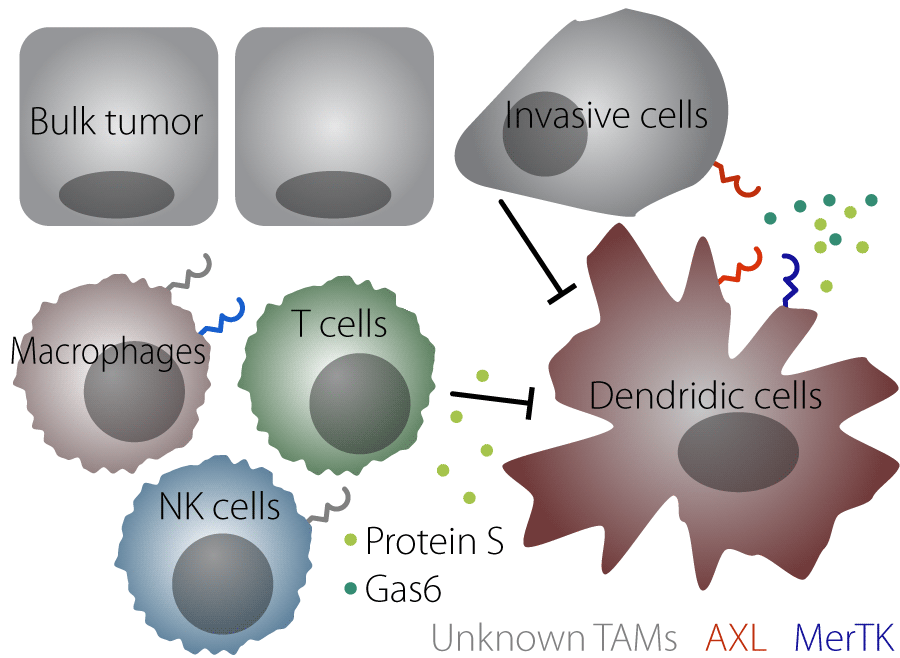
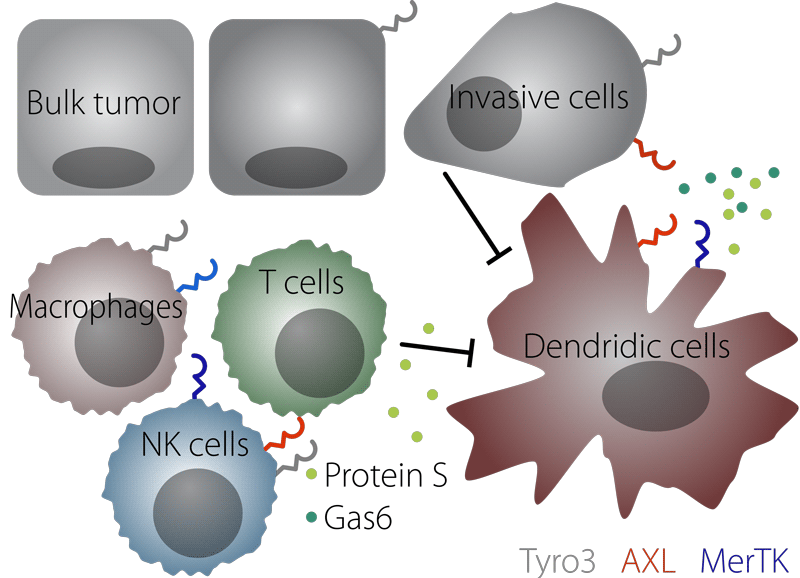
Update

diff --git a/protocols.html b/protocols.html
@@ -5,7 +5,7 @@ title: Protocols
 
 <section class="archive">
 
-<h2> Protocols </h2> 
+<h2> Protocols </h2>
 
 {% for post in site.categories.protocols %}
 
@@ -23,28 +23,6 @@ title: Protocols
 
 
 
-<section class="archive">
-<h2> Commercial Protocols </h2> 
-
-<article class="row gutters"><a href="https://www.protocols.io/view/QIAquick-PCR-Purification-Kit-Protocol-c2dya5" title="Qiagen QIAquick PCR Purification Kit" class="col span_8">Qiagen QIAquick PCR Purification Kit</a></article>
-
-<article class="row gutters"><a href="/public/files/QIAquick-Gel-Extraction-Kit-EN.pdf" title="QIAquick-Gel-Extraction-Kit-EN" class="col span_8">QIAquick Gel Extraction Kit</a></article>
-
-<article class="row gutters"><a href="/public/files/QIAprep-Spin-Miniprep-Kit-EN.pdf" title="QIAprep-Spin-Miniprep-Kit-EN" class="col span_8">QIAprep Spin Miniprep Kit</a></article>
-
-<article class="row gutters"><a href="/public/files/miRNeasy-Mini-Kit-EN.pdf" title="miRNeasy-Mini-Kit-EN" class="col span_8">miRNeasy Mini Kit</a></article>
-
-<article class="row gutters"><a href="/public/files/HiSpeed-Plasmid-Midi-Kit-EN.pdf" title="HiSpeed-Plasmid-Midi-Kit-EN" class="col span_8">HiSpeed Plasmid Midi Kit</a></article>
-
-<article class="row gutters"><a href="/public/files/HiSpeed-Plasmid-Maxi-Kit-EN.pdf" title="HiSpeed-Plasmid-Maxi-Kit-EN" class="col span_8">HiSpeed Plasmid Maxi Kit</a></article>
-
-<article class="row gutters"><a href="/public/files/DNeasy-96-Blood--Tissue-Quick-start-Protocol-EN.pdf" title="DNeasy-96-Blood--Tissue-Quick-start-Protocol-EN" class="col span_8">DNeasy 96 Blood & Tissue</a></article>
-
-</section>
-
-
-
-
 
 
 
@@ -53,12 +31,12 @@ title: Protocols
 
 
 <section class="archive">
-<h2> Other Links </h2> 
+<h2> Other Links </h2>
 
 <article class="row gutters"><a href="/team/lab_meeting.html" title="Lab meeting schedule" class="col span_8">Lab meeting schedule</a></article>
 
 <article class="row gutters"><a href="https://wikis.mit.edu/confluence/display/meyerlab/Meyer+Lab+Home" title="Private wiki" class="col span_8">Private wiki</a></article>
-    
+
 <article class="row gutters"><a href="http://ameyer.me/primer/search.php" title="Primer database" class="col span_8">Primer database</a></article>
 
 <article class="row gutters"><a href="https://groups.mit.edu/webmoira/list/meyerlab" title="Email list" class="col span_8">Email list</a></article>

diff --git a/_layouts/post.html b/_layouts/post.html
@@ -10,5 +10,5 @@ layout: default
 
   {{ content }}
 
-  <div class="post-tag">{% for tag in page.tags %}#<a href="{{ site.baseurl }}/tag/{{tag}}/">{{tag}}</a>&nbsp;&nbsp;{% endfor %}</div>
+  <div class="post-tag">{% for tag in page.tags %}#<a href="{{ site.baseurl }}/tag/{{tag | slugify}}/">{{tag}}</a>&nbsp;&nbsp;{% endfor %}</div>
 </article>

diff --git a/research/index.md b/research/index.md
@@ -3,27 +3,25 @@ layout: page
 title: Research
 ---
 
-The Meyer lab focuses on the interface of integrating data-driven and mechanistic computational approaches with detailed cell biological experiments to understand molecular systems. We apply both methods in concert, as understanding the limitations of both the computational and experimental methods is essential to their integration.
+The Meyer lab focuses on the interface of integrating data-driven and mechanistic computational approaches with detailed cell biological experiments to understand molecular systems. We apply both methods in concert, as accounting for the strengths and limitations of both is essential to their integration.
 
-### Engineering TAM RTK targeted therapies and immunotherapies
+### Identifying Shared Features Among Resistance Mechanisms to Help Predict Effective Combination Therapies for Individual Patients
 
-TAM receptors are a family of receptor tyrosine kinases (RTKs), represented by AXL, Tyro3, and MerTK, which have attracted considerable interest in the past decade as potential therapeutic targets in a wide range of cancers. While these receptors have been identified using genetic interventions as having important roles in cancer cell therapeutic resistance, immune cell-mediated clearance and metastasis, very little is understood about post-translational regulation of the receptors.
-
-> <img src="/public/images/TAM.png" width="400px" />  
-> In many cancers, a subset of tumor cells overexpress AXL, making them invasive and resistant to therapy. TAM receptor activation within dendritic cells potently inhibits the innate immune response. Macrophages and NK cells also express a complement of TAM receptors, which further influence the tumor immune response. Tumor cell AXL expression may also influence other PtdSer receptor activation within the tumor microenvironment.
-
-Therapeutic targeting of the TAM receptors was initially motivated in part by relatively mild effects upon knocking out expression. Further study has uncovered important function of the receptors in diverse processes and cautions against overly broad therapeutic targeting, but it suggests promise for TAM-targeted cancer therapy. Indeed, ablation of AXL and MerTK increases susceptibility to DSS-induced colitis on one hand, while having potent tumor-extrinsic anti-metastatic effects on the other.
-
-For these reasons, TAM receptor targeting represents a uniquely interesting context to investigate how we might develop fundamentally new approaches to cancer therapy and to use engineering methods to accelerate reverse-engineering molecular systems. These receptors highlight the etiological importance of rare cells to tumor progression, since their preliminary effectiveness has been specific to metastasis. At the same time, the importance of host signaling will limit design of therapies but also presents new possibilities for modulating immune response which may not suffer from the characteristic acquired resistance limitations of previous targeted therapies.
-
-### Targeted therapy resistance
-
-Receptor tyrosine kinase (RTK)-targeted therapies have been applied successfully in cancer treatment, though with limited effectiveness as activity of non-targeted RTKs can enable cells to become resistant. While redundant signaling is now appreciated as a common mechanism of acquired and innate resistance, exactly what signaling is essential to resistance and whether it is conserved or varies across cancer contexts has not been addressed. RTKs lead to a common set of downstream signals, but in vastly different quantitative combinations, and differ in their ability to confer resistance in a context-dependent manner. A fundamental, rigorous understanding of resistance is necessary if we are to develop better therapies to overcome this redundancy.
+Targeted therapies extend many cancer patient's lives, but are limited in efficacy to a subset of patients and by the development of resistance. Enormous efforts undertaken to identify mechanisms of resistance have uncovered numerous changes involving gene expression, post-translational regulation, and even tumor-extrinsic factors such as host-derived growth factors. Combination therapy can effectively combat resistance, but requires accurate identification of the relevant resistance mechanism. Precision therapy must account for many genetic and non-genetic intrinsic and adaptive resistance mechanisms if it will accurately select these combinations.
 
 > <img src="/public/images/resistanceConcept.svg" width="600px" />  
-> RTKs lead to the same set of downstream signals, but shifts in the quantitative amount of each lead to context-dependence resistance development.
+> In RTK-driven tumors, signals are transduced from the receptor to various kinases. Upon blocking the original cancer driver, resistance can be conferred by an untargeted receptor. Some receptors, however, do not provide essential resistance signals. By identifying similarities and differences of signaling from each receptor, we will be able to identify measurements pinpointing the relevant receptor causing resistance.
 
-Thus, we plan to develop techniques to measure RTK-adapter interaction quantitatively and across the multiple potential interactions within a cell simultaneously with the intention of completely capturing signaling from these receptors. We will use these techniques combined with quantitative modeling to examine interactions during receptor activation to understand how different RTKs can provide redundant signaling leading to RTK-targeted cancer therapy resistance.
+[More...](./resistance.html)
+
+### Systems Approaches for Rationally Designing Innate Immune Therapies
+
+TAM (Tyro3, AXL, MerTK) receptors are implicated in resistance to targeted therapies and metastasis via tumor cell-intrinsic effects, while more recent evidence has implicated the same receptors expressed on immune cells as a potentially effective therapeutic targets in many cancers. Outside of cancer, these receptors have been implicated in a number of diseases involving immunological dysregulation including lupus, rheumatoid arthritis, endometriosis, viral infection, and asthma. Rationally targeting these receptors, and even understanding how existing therapies function, has been limited by poor understanding of how the receptors are activated.
+
+> <img src="/public/images/TAM.png" width="400px" />  
+> In many cancers, a subset of tumor cells overexpress AXL, making them invasive and resistant to therapy. TAM receptor activation within dendritic cells potently inhibits the innate immune response. T cell release of ProS further dampens the immune response. Activation of TAMs inhibits NK cell-mediated lysis. Each of these cell populations express distinct and dynamic combinations of TAM receptor, likely modulating functional changes in microenvironmental response.
+
+[More...](./TAM.html)
 
 ### Improving model parameterization and understanding in systems biology
 

diff --git a/research/resistance.md b/research/resistance.md
@@ -1,0 +1,17 @@
+---
+layout: page
+title: Identifying Shared Features Among Resistance Mechanisms to Help Predict Effective Combination Therapies for Individual Patients
+---
+
+Targeted therapies extend many cancer patient's lives, but are limited in efficacy to a subset of patients and by the development of resistance. Enormous efforts undertaken to identify mechanisms of resistance have uncovered numerous changes involving gene expression, post-translational regulation, and even tumor-extrinsic factors such as host-derived growth factors. Combination therapy can effectively combat resistance, but requires accurate identification of the relevant resistance mechanism. Precision therapy must account for many genetic and non-genetic intrinsic and adaptive resistance mechanisms if it will accurately select these combinations.
+
+Rather than focus on single molecular changes causing resistance, we are studying sets of these changes to reveal the essential commonalities. Methods studying the signaling network changes leading to resistance to date have largely focused on two approaches: (1) paired molecular and response measurements across large panels of cell lines, or (2) screening-based platforms in which a large panel of expression changes are assessed for effect on resistance. These are complementary and informative but limited in the information provided. In the former case, one is limited to the variation within the cell line panel, with the ultimate resistance mechanism often unknown. Further, widespread genetic variation between cell lines serves as "noise" diluting out the "signal" of exactly which signaling changes lead to resistance, and may not be representative of resistance derived from sources such as the tumor microenvironment. In the latter case, sparse accounting for the molecular changes present with each intervention limits the commonalities that can be identified. Pinpointing the necessary and sufficient signaling changes for resistance mechanisms is essential for a clearer picture of what to measure and target in individual patient's tumors. For example, if bypass resistance to EGFR inhibitors in lung adenocarcinoma mediated by cMET, AXL, and FGFR1 all rely on Erk *or* JNK activation mediated by Grb2 *or* CrkL, then we can use this logic to identify precise treatment combinations. One might, with this knowledge, target AXL if activated cMET and FGFR1 are not present, or CrkL if Grb2 is not active. Realizing precision medicine in this fashion, however, requires identification both of the essential molecular events for resistance and mapping between the various signaling layers.
+
+> <img src="/public/images/resistanceConcept.svg" width="600px" />  
+> In RTK-driven tumors, signals are transduced from the receptor to various kinases. Upon blocking the original cancer driver, resistance can be conferred by an untargeted receptor. Some receptors, however, do not provide essential resistance signals. By identifying similarities and differences of signaling from each receptor, we will be able to identify measurements pinpointing the relevant receptor causing resistance.
+
+We are currently applying an alternative approach as part of my NIH Director's Early Independence Award to understand resistance to targeted kinase inhibition mediated by alternative, non-targeted receptor tyrosine kinases (RTKs)—so called bypass resistance. A central approach we take for this work is to use cells sensitive to an RTK inhibitor and then rescue them to varying extents with a panel of growth factors, cytokines and/or transient expression of selected genes. We then quantify the apoptosis/proliferative response of the cells in the presence of the inhibitor in each case, paired with multiplexed measurement of the signaling network changes with each intervention. Using multivariate modeling, we identify the molecular features that predict resistance, then experimentally verify these implicated events. This serves as an example for the benefit of close integration between the experimental and modeling efforts—through matched genetic backgrounds with very little time for subclonal selection, this approach provides optimal measurements for the modeling question at hand.
+
+This framework has already led us to identify that pathways beyond just canonical markers such as Erk/Akt are important for identifying whether an RTK can make cells resistant to EGFR- and HER2-targeted therapies. Namely, JNK activation is essential for predicting resistance, and modulating JNK activity in concert with other pathways can influence resistance development. Having published this initial work as a proof of concept, we are now applying this to identify drug combinations and study tumor heterogeneity. Lung cancer cells display dynamic, heterogeneous activation of Erk and JNK, and so we are mapping the multi-pathway single cell variation in activation as a potential mechanism of tumor persistence and adaptive resistance. With collaborators, we are also testing whether receptor-proximal measurements can identify which RTK is driving disease, and if these measurements in turn can predict optimal treatment combinations for individual xenograft tumors.
+
+Identifying commonalities among the many expression and signaling changes that cause cells to become resistant is a critical compliment to the functional genetics studies that have now globally mapped these changes. Using this approach, we will be able to determine whether cells reactivate the same downstream kinases or alternatively rely on fundamental changes in pathway activation dependency for a wider panel of molecular network changes driving resistance. This map will enable us to identify which combination therapies will be effective for individual tumors given measurements for which kinases are active.

diff --git a/research/TAM.md b/research/TAM.md
@@ -1,0 +1,15 @@
+---
+layout: page
+title: Systems Approaches for Rationally Designing Innate Immune Therapies
+---
+
+TAM (Tyro3, AXL, MerTK) receptors are implicated in resistance to targeted therapies and metastasis via tumor cell-intrinsic effects, while more recent evidence has implicated the same receptors expressed on immune cells as a potentially effective therapeutic targets in many cancers. Outside of cancer, these receptors have been implicated in a number of diseases involving immunological dysregulation including lupus, rheumatoid arthritis, endometriosis, viral infection, and asthma. Rationally targeting these receptors, and even understanding how existing therapies function, has been limited by poor understanding of how the receptors are activated.
+
+As efferocytosis receptors, a principal function of TAMs is to drive phagocytosis of phosphatidylserine-presenting extracellular debris via their ligands. Consequently, studying the receptors requires taking into account receptor function, ligand engagement, and the role of lipid vesicles. Work from the lab recently proposed, using a combination of modeling and experimental validation, that spatially-defined ligand presentation is vital to activation of these receptors. Spatial patterning underlies nearly all signaling processes. However, developing models incorporating spatial signaling aspects has been hampered both by difficulties in computationally accounting for these factors as well as experimentally manipulating them during model training and validation. This, therefore, represents a rich area for both modeling and experimental methodological development.
+
+> <img src="/public/images/TAM.png" width="400px" />  
+> In many cancers, a subset of tumor cells overexpress AXL, making them invasive and resistant to therapy. TAM receptor activation within dendritic cells potently inhibits the innate immune response. T cell release of ProS further dampens the immune response. Activation of TAMs inhibits NK cell-mediated lysis. Each of these cell populations express distinct and dynamic combinations of TAM receptor, likely modulating functional changes in microenvironmental response.
+
+To expand upon this initial model, we have been and will continue modeling the activation and subsequent phenotypic effects of TAM receptors within tumor and immune cells. Currently, we are quantitating the pattern of expression and measuring kinetic binding parameters necessary to simulate activation of the TAM receptors across many immune cell types. To rapidly develop models of receptor activation, we are rigorously accounting for the uncertainty in our models using Bayesian methods. We are taking advantage of our deep experimental and computational integration by utilizing, for example, a panel of receptor fragments, each with distinct binding properties. These represent unique TAM-targeted agents with therapeutic potential and specific inhibition profiles toward certain cell populations or activation mechanisms. At the same time, their specific effects will provide novel interventions to help deconvolve the pleiotropic roles of these receptors *in vivo*.
+
+More broadly, maximizing the potential of immune-targeted therapies will require an improved, multi-scale understanding of tumor-immune interaction from the molecular level to that of cell-cell interactions. Like TAMs, many receptors such as the Fc family and complement receptor are poorly understood both in their proximal activation and their downstream signaling effects, have simultaneous roles in signaling and trafficking, are activated through clustering as opposed to strictly receptor-ligand interaction, and derive specificity through the combination of activated species. Thus, TAM receptors represent a valuable prototype for studying immune receptor function on a systems level more generally. Indeed, we are beginning to take a similar approach targeting IgG effector function across cell populations using multivariate models of FcγR-IgG interaction.

diff --git a/team/lab_meeting.md b/team/lab_meeting.md
@@ -3,17 +3,13 @@ layout: page
 title: Lab Meeting Schedule
 ---
 
-| Date          |  Presenter    | Topic                                  | Time/Place      | Treat duty |
-|:-------------:|:-------------:|----------------------------------------|-----------------|------------|
-| 9/8/2016      | Aaron M       | TAM signaling project (Cancelled)      | 9 am, 76-358    | Simin M    |
-| 9/22/2016     | Simin M       | Resistance project update              | 9 am, 76-358    | Annelien Z |
-| 10/13/2016    | Annelien Z    | AXL induced migration                  | 9 am, 76-358    | Song B     |
-| 10/27/2016    | Song B        | Introduction / ideas discussion        | 9 am, 76-358    | Ted R      |
-| 11/10/2016    | Aaron M       | TAM signaling project                  | 9 am, 76-358    | Simin M    |
-| 12/15/2016    | Ted R         | TAM immune project                     | 9 am, 76-358    | Annelien Z |
-| 1/12/2017     | Simin M       | TBD                                    | 9 am, 76-358    | TBD        |
-| 1/26/2017     | Annelien Z    | TBD                                    | 9 am, 76-358    | TBD        |
-| 2/9/2017      | Song B        | TBD                                    | 9 am, 76-358    | TBD        |
-| 2/23/2017     | TBD           | TBD                                    | 9 am, 76-358    | TBD        |
+| Date          |  Presenter  | Topic                                  | Time/Place      | Treat duty |
+|:-------------:|:-----------:|----------------------------------------|-----------------|:----------:|
+| 10/27/2016    | Song        | Introduction / ideas discussion        | 9 am, 76-358    | Ted        |
+| 12/15/2016    | Ted         | TAM immune project                     | 9 am, 76-358    | Simin      |
+| 1/12/2017     | Simin       | TBD                                    | 9 am, 76-358    | Annelien   |
+| 1/26/2017     | Annelien    | AXL induced migration                  | 9 am, 76-358    | Song       |
+| 2/9/2017      | Song        | TBD                                    | 9 am, 76-358    | Ted        |
+| 2/23/2017     | Ted         | TAM TAM project                        | 9 am, 76-358    | Simin      |
 
 [Previous lab meetings](/team/lab_meeting_old.html)

diff --git a/team/lab_meeting_old.md b/team/lab_meeting_old.md
@@ -20,3 +20,6 @@ title: Previous Lab Meetings
 | 7/14/2016     | Mira M        | Acidosis-driven EMT                    | 9 am, 76-358    |
 | 8/11/2016     | Ryan R        | FcgR project                           | 9 am, 76-358    |
 | 8/25/2016     | Ted R         | TAM immune project                     | 9 am, 76-358    |
+| 9/8/2016      | Aaron M       | TAM signaling project (Cancelled)      | 9 am, 76-358    |
+| 9/22/2016     | Simin M       | Resistance project update              | 9 am, 76-358    |
+| 10/13/2016    | Annelien Z    | AXL induced migration                  | 9 am, 76-358    |

diff --git a/team/index.md b/team/index.md
@@ -60,15 +60,15 @@ Ryan joined the lab in January of 2016 as part of a project analyzing the bindin
 
 <br />
 
-<div class="span_2 right"><img src="/public/photos/cbray.jpg" width="120px" /></div>
-
-### Christina Bray, Undergraduate Researcher  
-Biological Engineering, MIT     
+### Ning Guan, Undergraduate Researcher  
+Undeclared, MIT     
 
 <br />
 <br />
 
 # Former Members
+
+#### Christina Bray, Undergraduate Researcher, Biological Engineering, MIT
 
 #### Andrea Meister, Undergraduate Researcher, Biological Engineering, MIT
 
